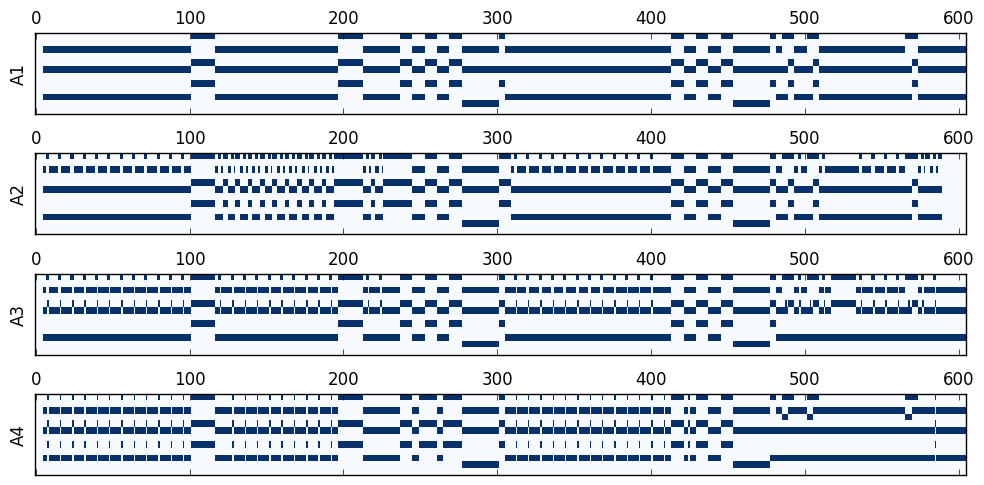
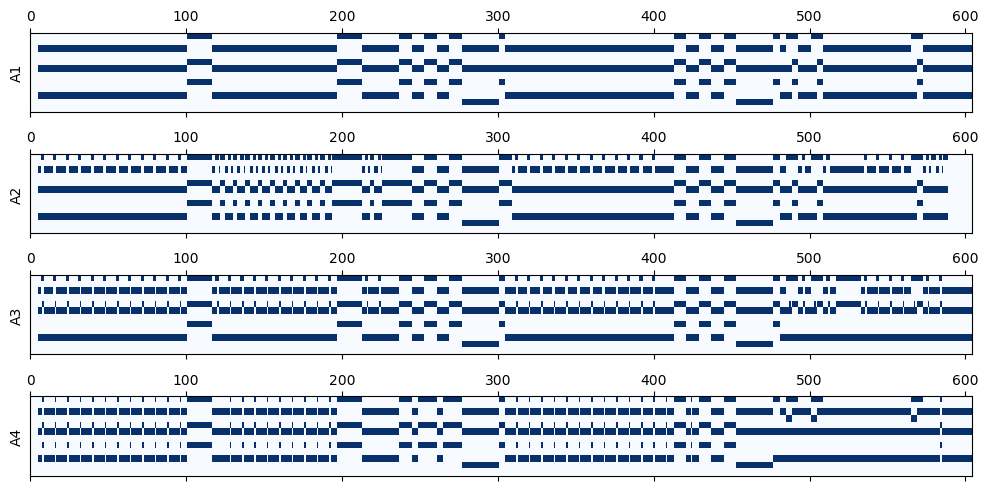
debug plot_chromas

Changed region(s): [[0.0, 0.0, 1.0, 0.9897]]

diff --git a/jams/plot_chromas.py b/jams/plot_chromas.py
@@ -1,0 +1,29 @@
+import jams
+import mir_eval
+import numpy as np
+import matplotlib.pyplot as plt
+
+# create chroma from chord label
+def labchroma(l):
+    r,c,b = mir_eval.chord.encode(l)
+    return np.roll(c,r)
+
+# plot the chromas of the annotators of song s
+def plotchroma(s):
+    jam = jams.load('jams/' + str(s) + '.jams')
+
+    nannotations = len(jam['annotations'])
+    f, axarr = plt.subplots(nannotations, sharex=False, sharey=True, figsize=(10, 5))
+    for (ann, ax) in zip(jam['annotations'],axarr):
+        chroma = np.array([labchroma(lab.value) for lab in ann.data])
+        im = ax.matshow(chroma.T, aspect='auto', cmap=plt.cm.Blues)
+        ax.set_ylabel(ann.annotation_metadata.annotator.id)
+        ax.get_yaxis().set_ticks([])
+    f.tight_layout()
+    fname = 'img/' + str(s) + '_chroma.png'
+    plt.savefig(fname, bbox_inches='tight')
+    plt.close()
+    print (fname + ' saved.')
+
+# Example for readme
+plotchroma(92)

diff --git a/plot_chromas.py b/plot_chromas.py
@@ -1,0 +1,29 @@
+import jams
+import mir_eval
+import numpy as np
+import matplotlib.pyplot as plt
+
+# create chroma from chord label
+def labchroma(l):
+    r,c,b = mir_eval.chord.encode(l)
+    return np.roll(c,r)
+
+# plot the chromas of the annotators of song s
+def plotchroma(s):
+    jam = jams.load('jams/' + str(s) + '.jams')
+
+    nannotations = len(jam['annotations'])
+    f, axarr = plt.subplots(nannotations, sharex=False, sharey=True, figsize=(10, 5))
+    for (ann, ax) in zip(jam['annotations'],axarr):
+        chroma = np.array([labchroma(lab.value) for lab in ann.data])
+        im = ax.matshow(chroma.T, aspect='auto', cmap=plt.cm.Blues)
+        ax.set_ylabel(ann.annotation_metadata.annotator.id)
+        ax.get_yaxis().set_ticks([])
+    f.tight_layout()
+    fname = 'img/' + str(s) + '_chroma.png'
+    plt.savefig(fname, bbox_inches='tight')
+    plt.close()
+    print (fname + ' saved.')
+
+# Example for readme
+plotchroma(92)
